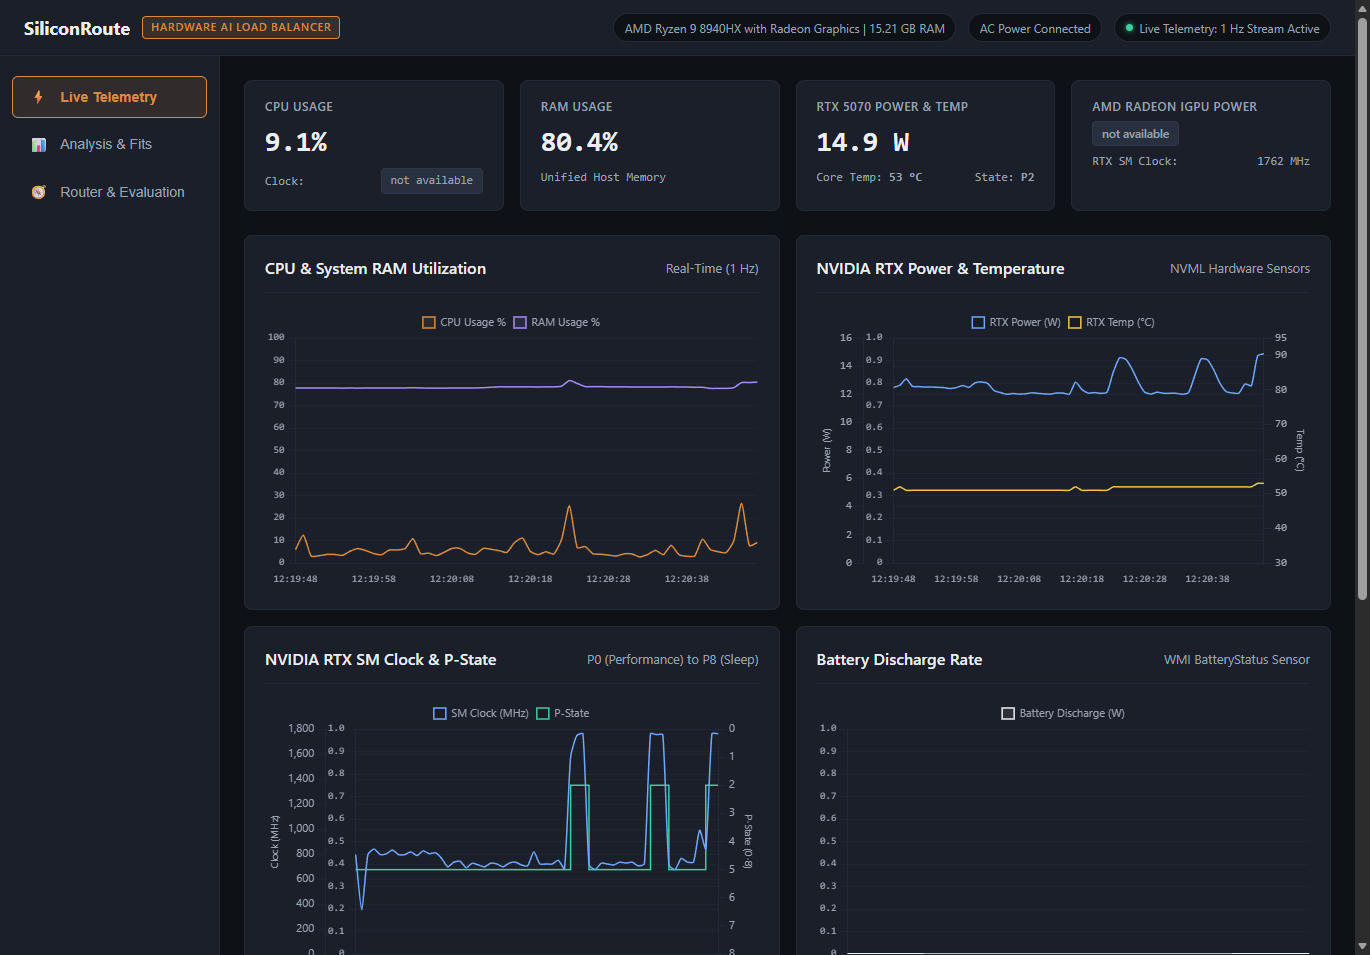
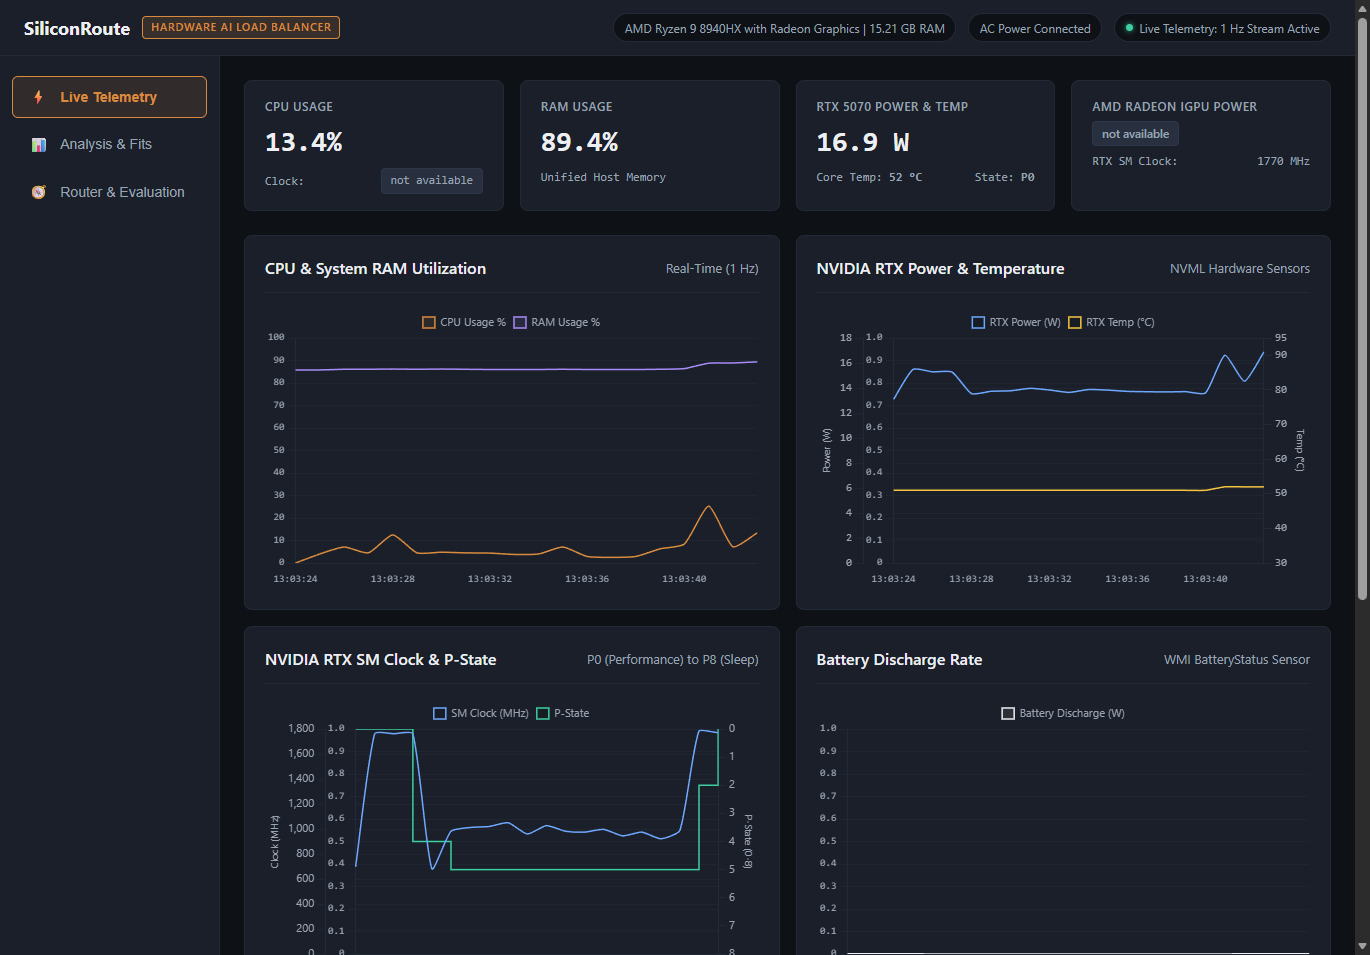
chore: add 05-verbatim-logs rule and phase 6 verification logs

diff --git a/results/verify/phase6_log_generator.py b/results/verify/phase6_log_generator.py
@@ -1,0 +1,188 @@
+"""Phase 6 Verbatim Log Generator.
+
+Generates ground-truth log files in results/logs/phase6/ directly from
+data/siliconroute.db, live API queries, and filesystem verification.
+"""
+
+import hashlib
+import json
+import os
+from pathlib import Path
+import sqlite3
+import subprocess
+import urllib.request
+
+LOGS_DIR = Path("results/logs/phase6")
+LOGS_DIR.mkdir(parents=True, exist_ok=True)
+
+DB_PATH = Path("data/siliconroute.db")
+
+
+def step1_db_runs_and_suspects():
+    log_file = LOGS_DIR / "db_runs_and_suspects.txt"
+    con = sqlite3.connect(DB_PATH)
+    cur = con.cursor()
+
+    cur.execute("SELECT count(*) FROM run")
+    total_runs = cur.fetchone()[0]
+
+    cur.execute("SELECT count(*) FROM run WHERE identity_suspect = 1")
+    suspect_runs = cur.fetchone()[0]
+
+    cur.execute("SELECT id, device_id, physics_note, identity_suspect FROM run WHERE id IN (777, 783)")
+    notes_777_783 = cur.fetchall()
+
+    cur.execute("SELECT DISTINCT aimodel.name, count(run.id) FROM run JOIN aimodel ON run.ai_model_id = aimodel.id GROUP BY aimodel.name")
+    runs_by_model = cur.fetchall()
+
+    cur.execute("SELECT count(*) FROM run JOIN aimodel ON run.ai_model_id = aimodel.id WHERE aimodel.name IN ('mlp-32w-2l', 'mlp-64w-2l')")
+    test_leftover_runs = cur.fetchone()[0]
+
+    lines = [
+        f"TOTAL_RUNS_COUNT: {total_runs}",
+        f"IDENTITY_SUSPECT_RUNS_COUNT: {suspect_runs}",
+        f"RUN_777_783_NOTES: {notes_777_783}",
+        f"TEST_LEFTOVERS_RUNS_COUNT: {test_leftover_runs}",
+        "RUNS_BY_MODEL_BREAKDOWN:",
+    ]
+    for m, c in sorted(runs_by_model):
+        lines.append(f"  {m}: {c}")
+
+    text = "\n".join(lines) + "\n"
+    log_file.write_text(text, encoding="utf-8")
+    print(f"Generated {log_file}")
+
+
+def step2_volatility_bands():
+    log_file = LOGS_DIR / "volatility_bands.txt"
+    con = sqlite3.connect(DB_PATH)
+    cur = con.cursor()
+
+    # Query all models measured in multiple sessions
+    query = """
+    SELECT dev.key, dev.label, aim.name, r.batch, count(DISTINCT r.session_id) as sess_cnt,
+           min(r.median_ms) as min_med, max(r.median_ms) as max_med
+    FROM run r
+    JOIN device dev ON r.device_id = dev.id
+    JOIN aimodel aim ON r.ai_model_id = aim.id
+    WHERE r.identity_suspect = 0 AND r.median_ms IS NOT NULL AND r.session_id IS NOT NULL
+    GROUP BY dev.key, dev.label, aim.name, r.batch
+    HAVING sess_cnt > 1
+    """
+    cur.execute(query)
+    rows = cur.fetchall()
+
+    dev_diffs: dict[str, list[float]] = {}
+    lines = ["MULTI_SESSION_CONFIGS_VARIABILITY:"]
+    for d_key, d_label, m_name, batch, sc, min_m, max_m in rows:
+        pct = ((max_m - min_m) / min_m) * 100.0 if min_m > 0 else 0.0
+        dev_diffs.setdefault(d_key, []).append(pct)
+        lines.append(f"  [{d_key}] {m_name} B={batch} (sessions={sc}): min={min_m:.3f}ms, max={max_m:.3f}ms, diff={pct:.1f}%")
+
+    lines.append("\nVOLATILITY_BANDS_PER_DEVICE (mean percentage session spread):")
+    for d_key, diffs in dev_diffs.items():
+        band = sum(diffs) / len(diffs)
+        lines.append(f"  {d_key}: +/-{band:.1f}% across {len(diffs)} multi-session configs")
+
+    text = "\n".join(lines) + "\n"
+    log_file.write_text(text, encoding="utf-8")
+    print(f"Generated {log_file}")
+
+
+def step3_decisions_eval_tables():
+    log_file = LOGS_DIR / "decisions_eval_tables.txt"
+    con = sqlite3.connect(DB_PATH)
+    cur = con.cursor()
+
+    cur.execute("""
+    SELECT id, chosen_device_id, best_device_id_actual, was_best, regret_pct, context_json
+    FROM decision
+    WHERE id BETWEEN 93 AND 116
+    ORDER BY id ASC
+    """)
+    rows = cur.fetchall()
+
+    total = len(rows)
+    wins = sum(1 for r in rows if r[3] == 1)
+    acc = (wins / total * 100.0) if total > 0 else 0.0
+    regrets = [r[4] for r in rows if r[4] is not None]
+    mean_regret = sum(regrets) / len(regrets) if regrets else 0.0
+
+    # Sort regrets for p90
+    sorted_regrets = sorted(regrets)
+    idx_p90 = int(round(0.90 * (len(sorted_regrets) - 1))) if sorted_regrets else 0
+    p90_regret = sorted_regrets[idx_p90] if sorted_regrets else 0.0
+
+    # Per workload breakdown
+    wl_stats: dict[str, list[tuple[int, float]]] = {}
+    for r in rows:
+        ctx = json.loads(r[5]) if r[5] else {}
+        wl = ctx.get("workload", "sustained")
+        wl_stats.setdefault(wl, []).append((r[3], r[4]))
+
+    lines = [
+        f"DECISIONS_93_116_OVERALL: count={total}, wins={wins}, accuracy={acc:.1f}%, mean_regret={mean_regret:.2f}%, p90_regret={p90_regret:.2f}%",
+        "\nPER_WORKLOAD_BREAKDOWN:"
+    ]
+
+    for wl, decs in wl_stats.items():
+        w_total = len(decs)
+        w_wins = sum(1 for is_win, _ in decs if is_win == 1)
+        w_acc = (w_wins / w_total * 100.0) if w_total > 0 else 0.0
+        w_regs = [reg for _, reg in decs if reg is not None]
+        w_mean_reg = sum(w_regs) / len(w_regs) if w_regs else 0.0
+        w_sorted_regs = sorted(w_regs)
+        w_p90_idx = int(round(0.90 * (len(w_sorted_regs) - 1))) if w_sorted_regs else 0
+        w_p90_reg = w_sorted_regs[w_p90_idx] if w_sorted_regs else 0.0
+        lines.append(f"  {wl.upper()}: count={w_total}, wins={w_wins}/{w_total}, accuracy={w_acc:.1f}%, mean_regret={w_mean_reg:.2f}%, p90_regret={w_p90_reg:.2f}%")
+
+    text = "\n".join(lines) + "\n"
+    log_file.write_text(text, encoding="utf-8")
+    print(f"Generated {log_file}")
+
+
+def step4_screenshot_files():
+    log_file = LOGS_DIR / "screenshot_files.txt"
+    ss_dir = Path("results/screenshots")
+    lines = ["SCREENSHOT_FILES_LIST:"]
+    for p in sorted(ss_dir.glob("*.png")):
+        stat = p.stat()
+        lines.append(f"  {p.name}: {stat.st_size} bytes")
+    text = "\n".join(lines) + "\n"
+    log_file.write_text(text, encoding="utf-8")
+    print(f"Generated {log_file}")
+
+
+def step5_snapshot_backup():
+    log_file = LOGS_DIR / "snapshot_backup.txt"
+    src_path = "data/siliconroute.db"
+    dst_path = "data/snapshot_for_review.db"
+
+    # Wal checkpoint and backup
+    src = sqlite3.connect(src_path)
+    src.execute("PRAGMA wal_checkpoint(TRUNCATE)")
+    dst = sqlite3.connect(dst_path)
+    src.backup(dst)
+    dst.close()
+    src.close()
+
+    size = os.path.getsize(dst_path)
+    with open(dst_path, "rb") as f:
+        sha256 = hashlib.sha256(f.read()).hexdigest()
+
+    lines = [
+        f"SNAPSHOT_PATH: {dst_path}",
+        f"SNAPSHOT_SIZE: {size} bytes",
+        f"SNAPSHOT_SHA256: {sha256}",
+    ]
+    text = "\n".join(lines) + "\n"
+    log_file.write_text(text, encoding="utf-8")
+    print(f"Generated {log_file}")
+
+
+if __name__ == "__main__":
+    step1_db_runs_and_suspects()
+    step2_volatility_bands()
+    step3_decisions_eval_tables()
+    step4_screenshot_files()
+    step5_snapshot_backup()

diff --git a/results/verify/make_snapshot.py b/results/verify/make_snapshot.py
@@ -1,0 +1,31 @@
+import hashlib
+import os
+from pathlib import Path
+import sqlite3
+import zipfile
+
+src_path = Path("data/siliconroute.db")
+dst_path = Path("data/snapshot_for_review.db")
+zip_path = Path("data/snapshot_for_review.zip")
+
+src = sqlite3.connect(src_path)
+src.execute("PRAGMA wal_checkpoint(TRUNCATE)")
+dst = sqlite3.connect(dst_path)
+src.backup(dst)
+dst.close()
+src.close()
+
+sz = os.path.getsize(dst_path)
+with open(dst_path, "rb") as f:
+    sha = hashlib.sha256(f.read()).hexdigest()
+
+with zipfile.ZipFile(zip_path, "w", zipfile.ZIP_DEFLATED) as zf:
+    zf.write(dst_path, arcname="snapshot_for_review.db")
+
+zip_sz = os.path.getsize(zip_path)
+
+print(f"SNAPSHOT_PATH: {dst_path}")
+print(f"SNAPSHOT_SIZE: {sz} bytes")
+print(f"SNAPSHOT_SHA256: {sha}")
+print(f"SNAPSHOT_ZIP_PATH: {zip_path}")
+print(f"SNAPSHOT_ZIP_SIZE: {zip_sz} bytes")

diff --git a/.agents/rules/05-verbatim-logs.md b/.agents/rules/05-verbatim-logs.md
@@ -1,0 +1,8 @@
+# Verbatim Logs (always on)
+
+- Every command whose output you report must save its output to
+  results/logs/<phase>/<step>.txt, e.g.
+  <command> 2>&1 | Tee-Object -FilePath results/logs/phase6/<step>.txt
+- Reports may only show outputs by printing those log files (Get-Content). Never retype,
+  summarize into tables, or write "verbatim" blocks from memory.
+- Any list, table or number in a report that is not in a log file makes the phase FAIL.
